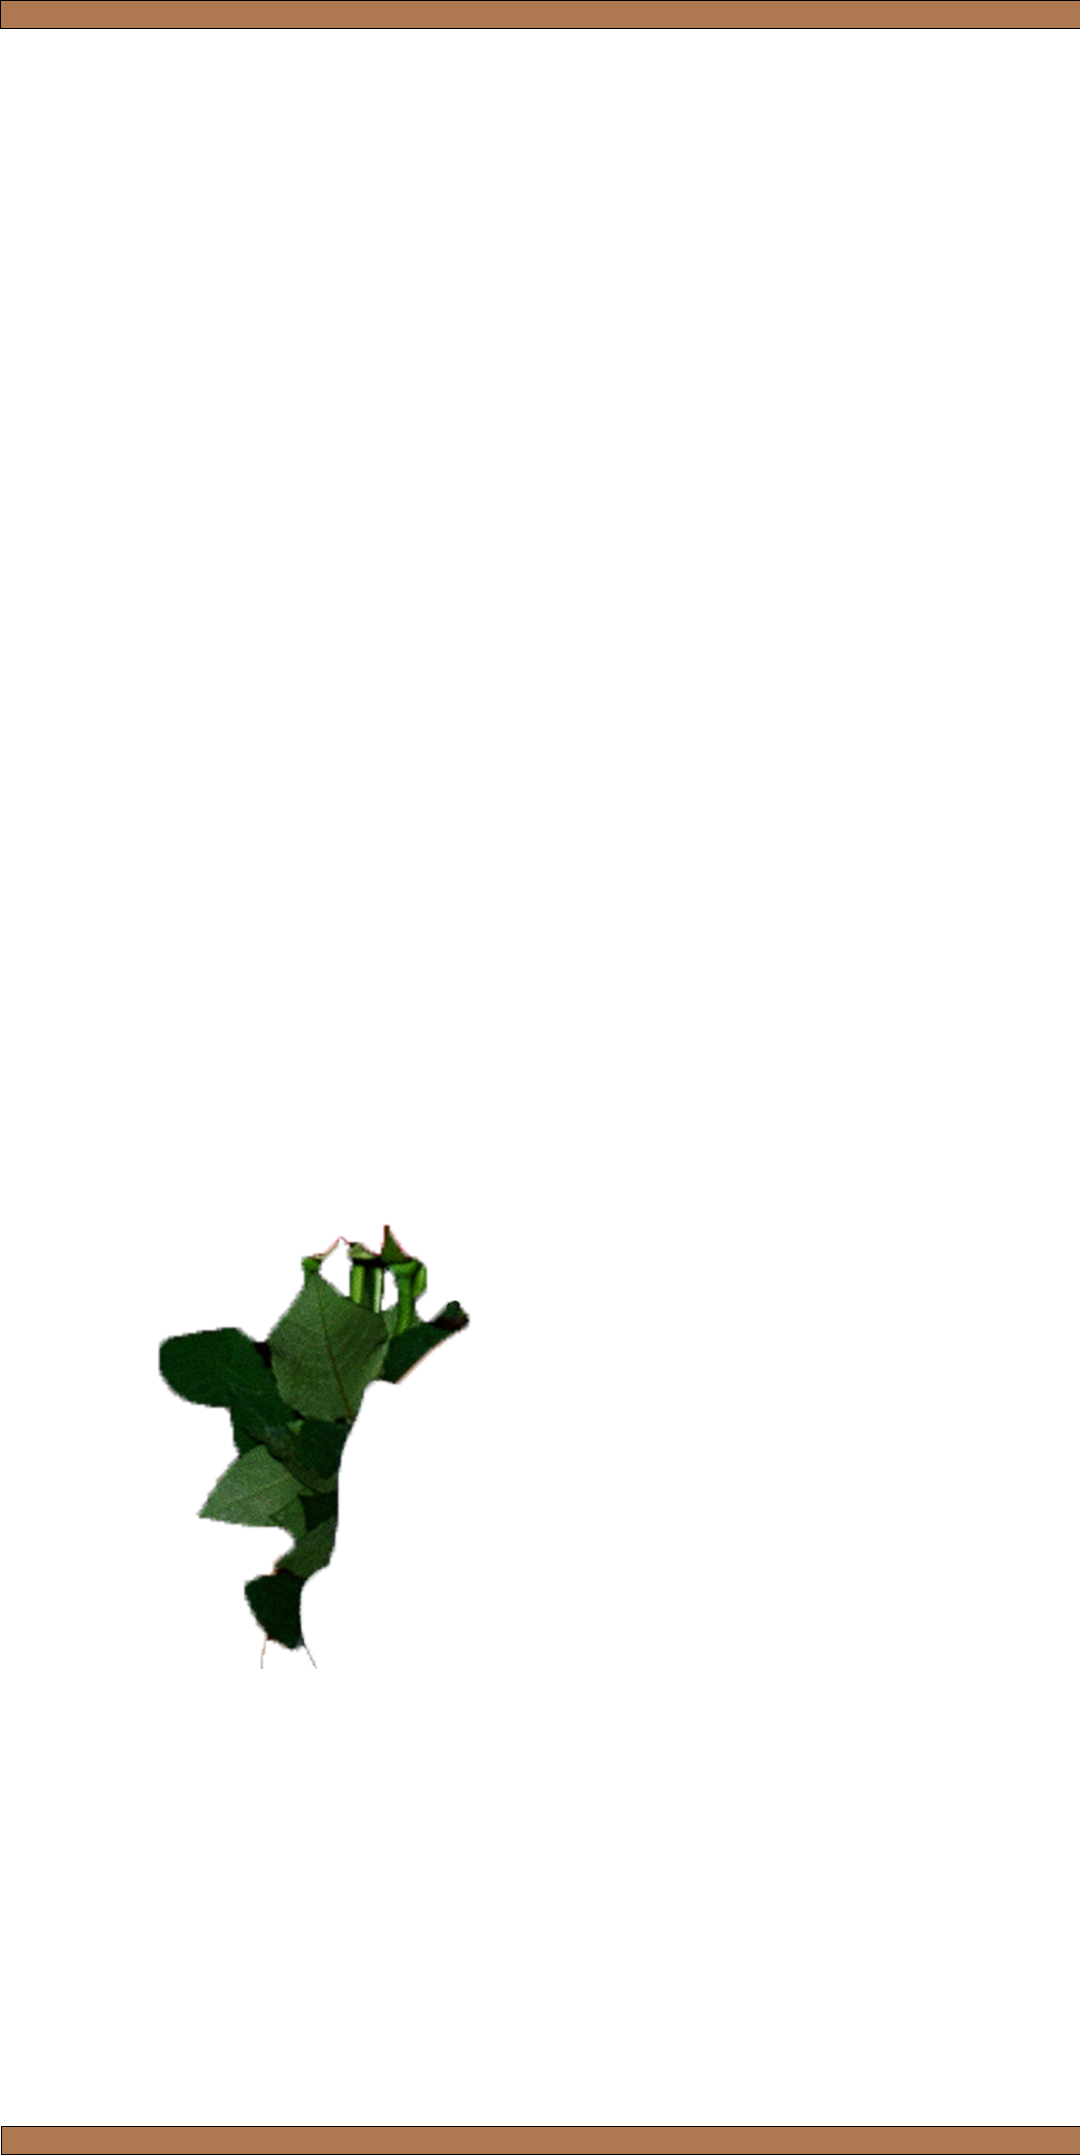
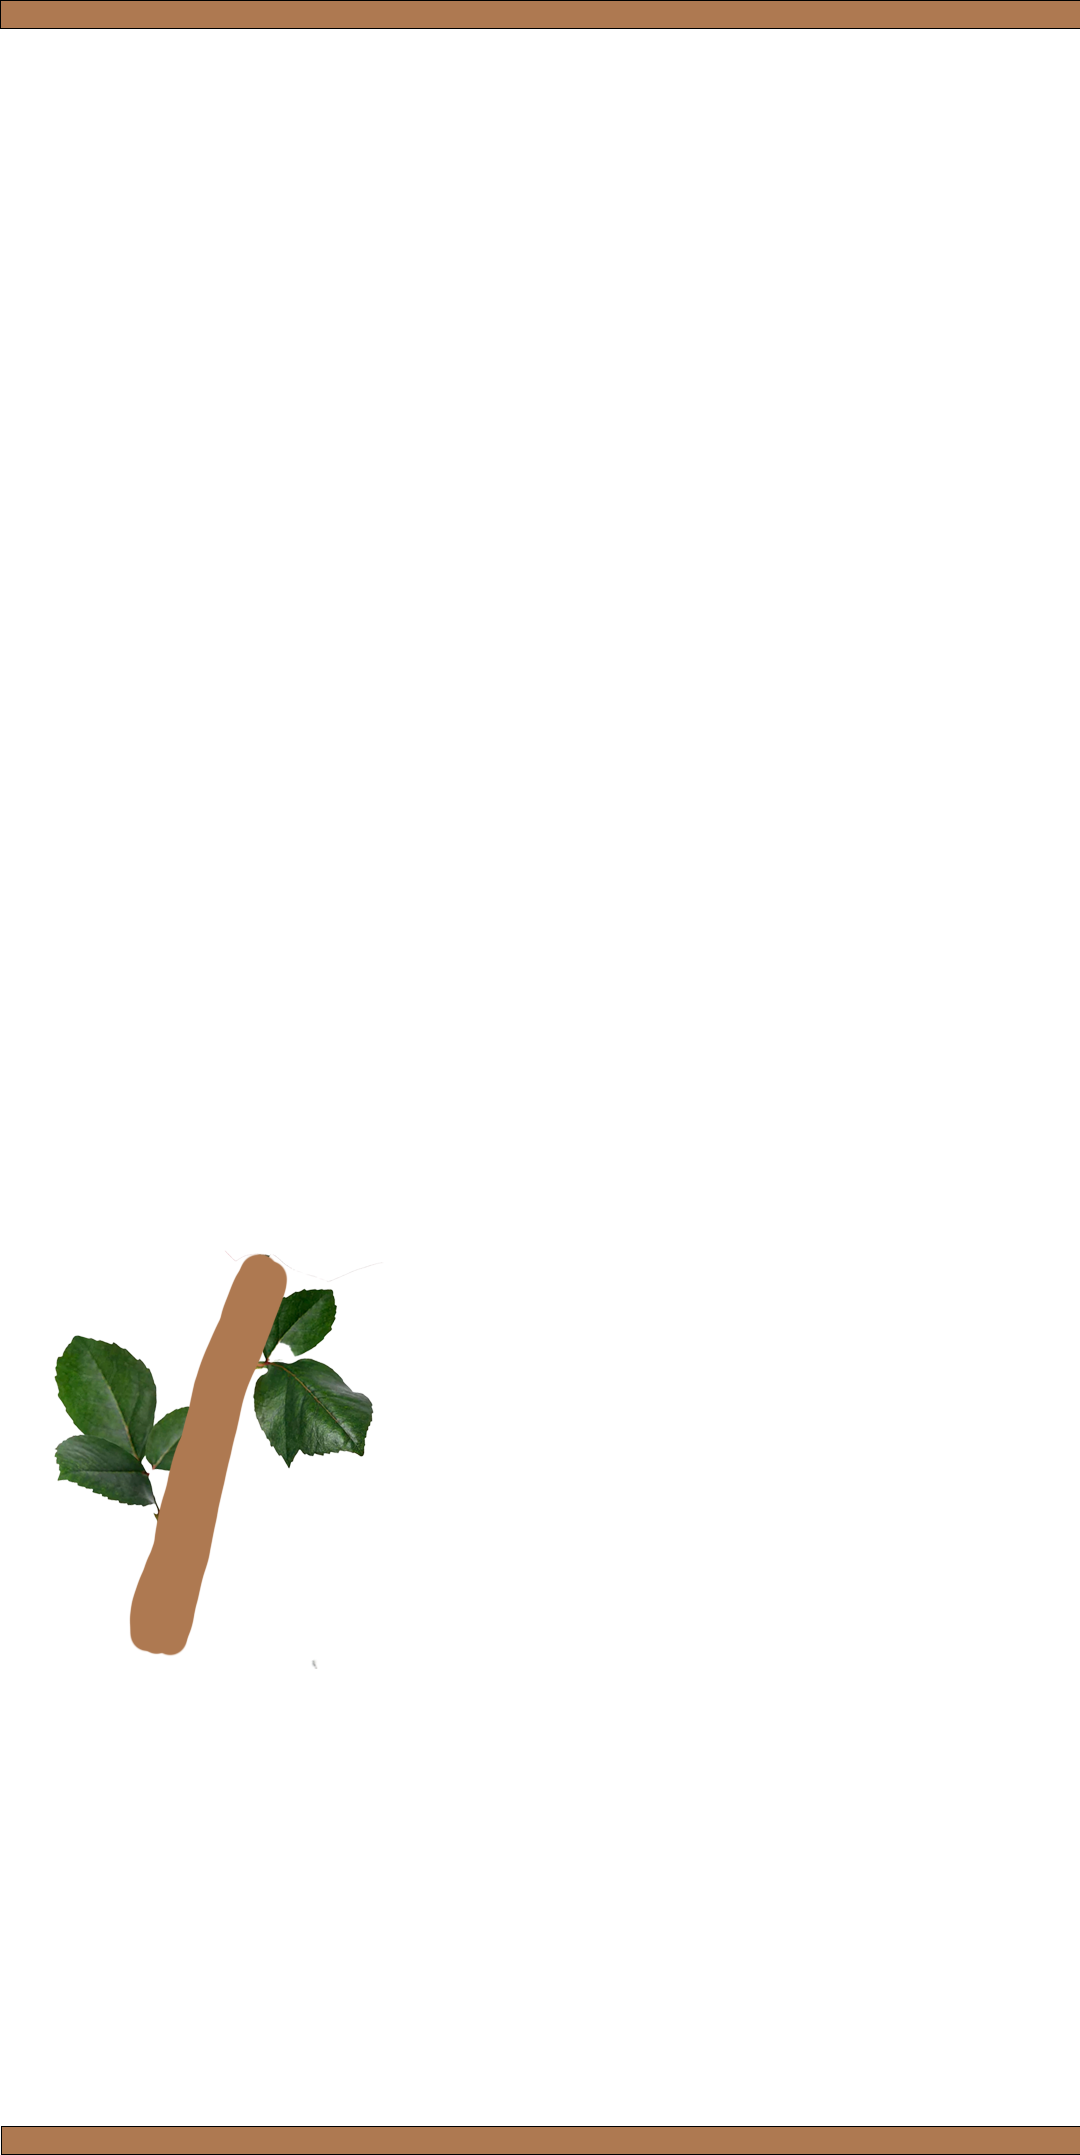
fixed up shape of rose, adjusted proportions for colors

Changed region(s): [[0.0306, 0.5596, 0.4278, 0.7773]]

diff --git a/script.js b/script.js
@@ -1,4 +1,4 @@
-let images = [null, null, null, null, null, null];
+let images = [null, null, null, null, null, null, null, null];
 const transparencyThreshold = 128;
 const numOfStreams = 1500;
 let imgCenter; 
@@ -10,7 +10,7 @@ function preload() {
     circleDiameter = Math.min(windowWidth, windowHeight);
     let desiredImageHeight = circleDiameter * 2;
 
-    for (let i = 0; i < 7; i++) {
+    for (let i = 0; i < 8; i++) {
         loadImage(`images/image${i + 1}.png`, img => {
             let scaleFactor = desiredImageHeight / img.height;
             img.resize(img.width * scaleFactor, img.height * scaleFactor);
@@ -52,13 +52,14 @@ function setup() {
         [255, 219, 172],
         [255, 219, 172],
         [222, 49, 99],
+        [222, 49, 99],
         [27, 18, 18]
     ];
 
-    const percentages = [0.04, 0.2, .3, .35, 0.015, 0.015, 0.015];
+    const percentages = [0.13, 0.19, .26, .295, 0.015, 0.02, 0.01, 0.015];
     streamGroups = [];
 
-    for (let j = 0; j < 7; j++) {
+    for (let j = 0; j < 8; j++) {
         let streams = [];
         let streamCountForImage = Math.round(numOfStreams * percentages[j]);
         for (let i = 0; i < streamCountForImage; i++) {
@@ -69,18 +70,19 @@ function setup() {
 }
 
 function isOverAnyImageCached(point) {
-let cacheKey = `${point.x},${point.y}`;
+    let cacheKey = `${point.x},${point.y}`;
 
-// Use the cached result if available
-if (pointImageOverlapCache.hasOwnProperty(cacheKey)) {
-return pointImageOverlapCache[cacheKey];
+    // Use the cached result if available
+    if (pointImageOverlapCache.hasOwnProperty(cacheKey)) {
+        return pointImageOverlapCache[cacheKey];
+    }
+
+    let result = Stream.prototype.isOverAnyImage.call({ isOverImage: Stream.prototype.isOverImage }, point);
+    pointImageOverlapCache[cacheKey] = result;  // Cache the result
+
+    return result;
 }
 
-let result = isOverAnyImage(point);
-pointImageOverlapCache[cacheKey] = result;  // Cache the result
-
-return result;
-}
 
 function draw() {
 
@@ -176,75 +178,78 @@ class Stream {
         return false;
     }
   
-      stayWithinBounds(point) {
-const buffer = 5;  // Small buffer to ensure that the stream doesn't touch the edge
-if (point.x <= buffer || point.x >= width - buffer) {
-this.currentAngle = PI - this.currentAngle;  // Reflect horizontally
-}
-if (point.y <= buffer || point.y >= height - buffer) {
-this.currentAngle = -this.currentAngle;  // Reflect vertically
-}
-}
+    stayWithinBounds(point) {
+        const buffer = 5;  // Small buffer to ensure that the stream doesn't touch the edge
+        if (point.x <= buffer || point.x >= width - buffer) {
+            this.currentAngle = PI - this.currentAngle;  // Reflect horizontally
+        }
+        if (point.y <= buffer || point.y >= height - buffer) {
+            this.currentAngle = -this.currentAngle;  // Reflect vertically
+        }
+    }
+    
 
-update() {
-let lastPoint = this.points[this.points.length - 1];
-let newPoint;
-
-let speed = this.attractMode ? 8 : 8; // Double the speed when attractMode is on
-
-if (this.attractMode) {
-if (this.isOutsideAllImages(lastPoint) || this.insideImage || this.isOverAssignedImage(lastPoint)) {
-    this.currentAngle = this.calculateAngleTowardsImage(lastPoint, this.assignedImageIdx);
-}
-} else {
-if (this.isOverAnyImage(lastPoint)) {
-    // Repulsion mechanism: If point is inside any image, move away from the image center
-    this.currentAngle = this.calculateAngleAwayFromClosestImageCenter(lastPoint);
-}
-}
-
-let angleVariation = map(noise(this.noiseOffset), 0, 1, -PI / 2, PI / 2);
-this.currentAngle += angleVariation;
-
-newPoint = p5.Vector.fromAngle(this.currentAngle).mult(speed).add(lastPoint);  // Using the speed variable here
-
-// If in attractMode and inside assigned image, check if the new point is outside
-if (this.attractMode && this.insideImage && !this.isOverAssignedImage(newPoint)) {
-this.currentAngle += PI; // Flip direction
-newPoint = p5.Vector.fromAngle(this.currentAngle).mult(speed).add(lastPoint); // Using the speed variable here too
-}
-
-this.stayWithinBounds(newPoint);  // Check and adjust for bounds
-
-this.points.push(newPoint);
-this.noiseOffset += 0.1;
-
-if (this.points.length > 100) {
-this.points.shift();
-}
-
-// Update the insideImage flag based on the last point
-this.insideImage = this.isOverAssignedImage(lastPoint);
-}
+    update() {
+        let lastPoint = this.points[this.points.length - 1];
+        let newPoint;
+    
+        let speed = this.attractMode ? 8 : 8; 
+    
+        if (this.attractMode) {
+            if (this.isOutsideAllImages(lastPoint) || this.insideImage) {
+                this.currentAngle = this.calculateAngleTowardsImage(lastPoint, this.assignedImageIdx);
+            }
+        } else {
+            // Only change direction if the point is not inside its assigned image
+            if (!this.isOverAssignedImage(lastPoint) && this.isOverAnyImage(lastPoint)) {
+                this.currentAngle = this.calculateAngleAwayFromClosestImageCenter(lastPoint);
+            }
+        }
+    
+        let angleVariation = map(noise(this.noiseOffset), 0, 1, -PI / 2, PI / 2);
+        this.currentAngle += angleVariation;
+    
+        newPoint = p5.Vector.fromAngle(this.currentAngle).mult(speed).add(lastPoint);
+    
+        if (this.attractMode && this.insideImage && !this.isOverAssignedImage(newPoint)) {
+            this.currentAngle += PI; 
+            newPoint = p5.Vector.fromAngle(this.currentAngle).mult(speed).add(lastPoint);
+        }
+    
+        this.stayWithinBounds(newPoint);
+        this.points.push(newPoint);
+        this.noiseOffset += 0.1;
+    
+        if (this.points.length > 100) {
+            this.points.shift();
+        }
+    
+        this.insideImage = this.isOverAssignedImage(lastPoint);
+    }
 
     calculateAngleAwayFromClosestImageCenter(point) {
         let closestDistance = Infinity;
         let closestImageCenter;
-
-        for (let img of images) {
-            let distance = dist(point.x, point.y, imgCenter.x, imgCenter.y);
-            if (distance < closestDistance && this.isOverImage(point, img)) {
-                closestDistance = distance;
-                closestImageCenter = imgCenter;
+    
+        for (let i = 0; i < images.length; i++) {
+            let img = images[i];
+            // Exclude the assigned image from the repulsion mechanism
+            if (i !== this.assignedImageIdx) {
+                let distance = dist(point.x, point.y, imgCenter.x, imgCenter.y);
+                if (distance < closestDistance && this.isOverImage(point, img)) {
+                    closestDistance = distance;
+                    closestImageCenter = imgCenter;
+                }
             }
         }
-
+    
         if (closestImageCenter) {
             return p5.Vector.sub(point, closestImageCenter).heading();
         }
         
         return random(TWO_PI);
     }
+    
 
     calculateAngleTowardsImage(point, imgIdx) {
         if (this.insideImage) {
